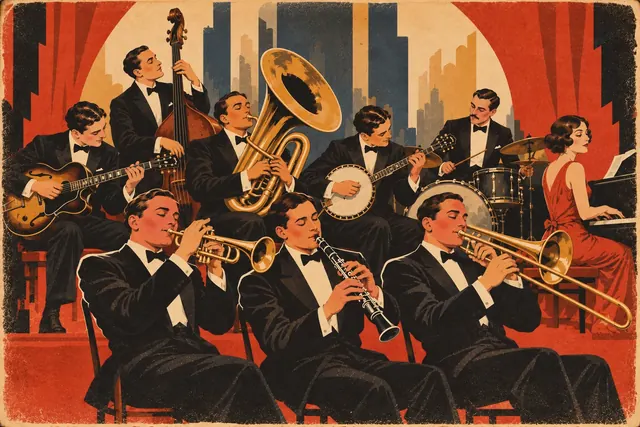
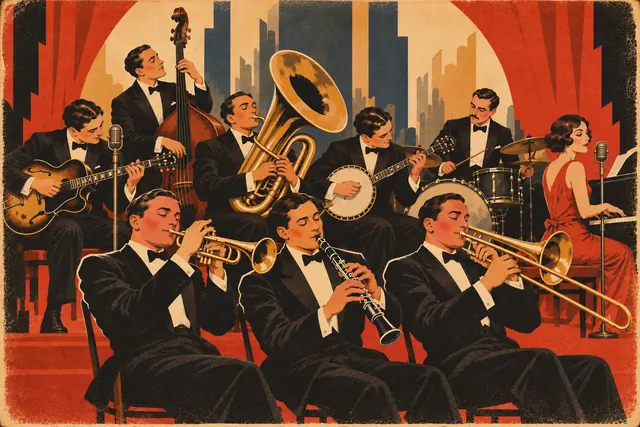
Use Ben's grayed-out lineup art in the band mixer
New illustration from the Photopea document (with microphones), and a
gray "off" state for every optional player: tuba, string bass, guitar,
banjo, trombone, drums and piano. mixer.py cuts each from an export with
just that player grayed, keeping exactly the changed pixels (no
feathering), so the patches stack to match Ben's combination exports.

Each patch's alpha doubles as that player's hit map: clicking anywhere on
a player in the art switches their track, and hovering previews it. This
replaces the hand-placed rectangle that only covered the bass.

For now the microphones gray with the guitar and piano, as in the
exports; separating them for vocals is a later re-export.

Claude-Session: https://claude.ai/code/session_01JQtVYiEz3mEvbjtBwR4Prt

diff --git a/assets/js/main.js b/assets/js/main.js
@@ -240,7 +240,7 @@
       tracks: tracks.filter((t) => el.contains(t.el)),
     }));
     const overlays = [...root.querySelectorAll(".mixer__off[data-player]")];
-    const hotspots = [...root.querySelectorAll(".mixer__hotspot")];
+    const stage = root.querySelector(".mixer__stage");
     const playBtn = root.querySelector(".mixer__play");
     const seek = root.querySelector(".mixer__seek");
     const elapsed = root.querySelector(".mixer__time");
@@ -326,7 +326,6 @@
         t.el.dataset.audible = String(audible(t));
         if (t.gain && ctx) t.gain.gain.setTargetAtTime(audible(t) ? 1 : 0, ctx.currentTime, 0.015);
       }
-      for (const h of hotspots) h.setAttribute("aria-pressed", String(playerOn(h.dataset.player)));
       for (const img of overlays) img.dataset.visible = String(!playerOn(img.dataset.player));
       const count = tracks.reduce((n, t) => n + (t.on ? t.players.length : 0), 0);
       size.textContent = SIZES[count] || `${count}-piece band`;
@@ -461,12 +460,51 @@
       });
       t.canvas.addEventListener("pointerup", () => (t.canvas.onpointermove = null));
     }
-    for (const h of hotspots) {
-      h.addEventListener("click", () => {
-        const t = tracks.find((o) => o.players.includes(h.dataset.player));
-        if (t) toggle(t);
-      });
-    }
+    // Tapping the art. Each overlay's alpha is exactly that player's shape
+    // (the pixels the grayed export changed), so it doubles as a
+    // pixel-accurate hit map, whether or not the overlay is showing.
+    const hitMaps = new Map();
+    const alphaOf = (img) => {
+      if (hitMaps.has(img)) return hitMaps.get(img);
+      if (!img.complete || !img.naturalWidth) return null;
+      const c = document.createElement("canvas");
+      c.width = img.naturalWidth;
+      c.height = img.naturalHeight;
+      const g = c.getContext("2d");
+      g.drawImage(img, 0, 0);
+      let data = null;
+      try { data = g.getImageData(0, 0, c.width, c.height).data; } catch {}
+      hitMaps.set(img, data);
+      return data;
+    };
+    const playerAt = (e) => {
+      for (const img of overlays) {
+        const r = img.getBoundingClientRect();
+        const x = Math.floor(((e.clientX - r.left) / r.width) * img.naturalWidth);
+        const y = Math.floor(((e.clientY - r.top) / r.height) * img.naturalHeight);
+        if (x < 0 || y < 0 || x >= img.naturalWidth || y >= img.naturalHeight) continue;
+        const a = alphaOf(img);
+        if (a && a[(y * img.naturalWidth + x) * 4 + 3] > 127) return img;
+      }
+      return null;
+    };
+    const trackOf = (img) => img && tracks.find((t) => t.players.includes(img.dataset.player));
+    let hovered = null;
+    const hover = (img) => {
+      if (img === hovered) return;
+      if (hovered) delete hovered.dataset.hover;
+      hovered = img;
+      if (img) img.dataset.hover = "true";
+      stage.style.cursor = trackOf(img) ? "pointer" : "";
+    };
+    stage.addEventListener("pointermove", (e) => {
+      if (e.pointerType === "mouse") hover(playerAt(e));
+    });
+    stage.addEventListener("pointerleave", () => hover(null));
+    stage.addEventListener("click", (e) => {
+      const t = trackOf(playerAt(e));
+      if (t) toggle(t);
+    });
 
     playBtn.addEventListener("click", () => {
       if (playing) {
@@ -494,7 +532,6 @@
         root.querySelector(".mixer__tracks").hidden = true;
         root.querySelector(".mixer__builder").hidden = false;
         root.querySelector(".mixer__deck").hidden = false;
-        hotspots.forEach((h) => (h.hidden = false));
         root.dataset.ready = "true";
         render();
       })

diff --git a/src/pages/configurations.html b/src/pages/configurations.html
@@ -84,9 +84,9 @@ schema: band
        floor of the band); data-need finishes "A lineup needs at least …".
        Lineup rules as Ben specified, Oct 2026. Media is prepared by
        `python3 _source/mixer.py`, which also writes the waveforms and the
-       master level to mix.json — see that file. A player who should black
-       out in the art needs a .mixer__off overlay, and optionally a
-       .mixer__hotspot to make them tappable. Without JS, visitors get the art
+       master level to mix.json — see that file. A player who should gray
+       out in the art needs a .mixer__off overlay (mixer.py prints the line);
+       its shape is also what makes that player tappable. Without JS, visitors get the art
        and a plain list of the tracks. -->
   <section class="section section--paper" id="hear-the-difference">
     <div class="wrap">
@@ -104,12 +104,16 @@ schema: band
             <picture>
               <source type="image/webp" srcset="/assets/img/band-mixer-640.webp 640w, /assets/img/band-mixer-1024.webp 1024w" sizes="(min-width: 64rem) 560px, 100vw">
               <img src="/assets/img/band-mixer-1024.jpg"
-                   alt="Illustration of a 1920s-style jazz band in tuxedos: guitar, string bass, tuba, banjo, drums, piano, trumpet, clarinet, and trombone."
+                   alt="Illustration of a 1920s-style jazz band in tuxedos: guitar, string bass, tuba, banjo, drums, piano, trumpet, clarinet, and trombone, with two microphones on stands."
                    width="1024" height="683" loading="lazy" decoding="async">
             </picture>
-            <img class="mixer__off" data-player="bass" src="/assets/img/mixer/bass-off.webp" alt="" width="296" height="557" loading="lazy" decoding="async" style="left:16.21%;top:0.49%;width:19.27%">
-            <button class="mixer__hotspot" type="button" data-player="bass" tabindex="-1" aria-hidden="true" hidden
-                    style="--x:17.3%;--y:1.5%;--w:15.6%;--h:34.6%"></button>
+            <img class="mixer__off" data-player="guitar" src="/assets/img/mixer/guitar-off.webp" alt="" width="412" height="550" loading="lazy" decoding="async" style="left:0.39%;top:23.73%;width:26.82%">
+            <img class="mixer__off" data-player="bass" src="/assets/img/mixer/bass-off.webp" alt="" width="261" height="491" loading="lazy" decoding="async" style="left:17.64%;top:1.17%;width:16.99%">
+            <img class="mixer__off" data-player="tuba" src="/assets/img/mixer/tuba-off.webp" alt="" width="348" height="450" loading="lazy" decoding="async" style="left:31.12%;top:11.82%;width:22.66%">
+            <img class="mixer__off" data-player="banjo" src="/assets/img/mixer/banjo-off.webp" alt="" width="349" height="372" loading="lazy" decoding="async" style="left:48.57%;top:25.49%;width:22.72%">
+            <img class="mixer__off" data-player="drums" src="/assets/img/mixer/drums-off.webp" alt="" width="336" height="344" loading="lazy" decoding="async" style="left:63.15%;top:20.70%;width:21.88%">
+            <img class="mixer__off" data-player="piano" src="/assets/img/mixer/piano-off.webp" alt="" width="194" height="443" loading="lazy" decoding="async" style="left:84.64%;top:26.76%;width:12.63%">
+            <img class="mixer__off" data-player="trombone" src="/assets/img/mixer/trombone-off.webp" alt="" width="564" height="546" loading="lazy" decoding="async" style="left:60.09%;top:45.70%;width:36.72%">
           </div>
 
           <div class="mixer__deck" hidden>

diff --git a/assets/css/site.css b/assets/css/site.css
@@ -970,21 +970,10 @@ a:hover { color: var(--gold-bright); }
 }
 .mixer__off[data-visible="true"] { opacity: 1; }
 
-.mixer__hotspot {
-  position: absolute;
-  left: var(--x);
-  top: var(--y);
-  width: var(--w);
-  height: var(--h);
-  padding: 0;
-  background: none;
-  border: 2px solid transparent;
-  border-radius: var(--radius-lg);
-  cursor: pointer;
-  transition: border-color var(--transition), background var(--transition);
-}
-.mixer__hotspot:hover { border-color: var(--gold); background: rgb(201 168 76 / 0.08); }
-.mixer__hotspot:disabled { cursor: default; border-color: transparent; background: none; }
+/* Hovering a player previews the change a click would make: a hint of
+   gray on a player who is on, a hint of color on one who is off. */
+.mixer__off[data-hover="true"] { opacity: 0.45; }
+.mixer__off[data-visible="true"][data-hover="true"] { opacity: 0.55; }
 
 .mixer__deck {
   display: flex;

diff --git a/_source/mixer.py b/_source/mixer.py
@@ -24,9 +24,9 @@ plus the length and a waveform outline per track for the page to draw.
 
 OVERLAYS — assets/img/mixer/orig/<player>-off.* -> assets/img/mixer/<player>-off.webp
 
-Each source is the full band illustration (assets/img/orig/band-mixer.*) with
-one player blacked out, and nothing else changed. The script keeps only the
-pixels that differ from the base, feathers the edge, and crops to them, so each
+Each source is the full band illustration (assets/img/orig/band-mixer.png) with
+one player grayed out, and nothing else changed. The script keeps only the
+pixels that differ from the base and crops to them, so each
 player's "off" state is a small transparent patch laid over the one base image.
 That way players toggle independently: no image per combination.
 
@@ -34,7 +34,7 @@ It prints the <img> line for each overlay, with its position as percentages
 of the base image, ready to paste into src/pages/configurations.html.
 """
 
-from PIL import Image, ImageChops, ImageFilter
+from PIL import Image, ImageChops
 import os, re, subprocess, sys
 
 AUDIO_SRC = 'assets/audio/stems/orig'
@@ -49,11 +49,12 @@ BITRATE = {1: '96k', 2: '160k'}
 PEAK_TARGET_DB = -1.0
 WAVE_BINS = 480         # waveform resolution; the page scales it to fit
 
-BASE = 'assets/img/orig/band-mixer.webp'
+BASE = 'assets/img/orig/band-mixer.png'
 OVERLAY_SRC = 'assets/img/mixer/orig'
 OVERLAY_OUT = 'assets/img/mixer'
-DIFF_THRESHOLD = 30   # per-pixel difference that counts as "changed" (0-255);
-                      # below this is just compression noise between the two
+DIFF_THRESHOLD = 0    # per-pixel difference that counts as "changed" (0-255).
+                      # The Photopea exports are lossless and identical outside
+                      # the grayed player, so any difference at all is real.
 
 
 def slugify(stem: str) -> str:
@@ -139,10 +140,10 @@ def overlays():
 
         diff = ImageChops.difference(base, off).convert('L')
         mask = diff.point(lambda v: 255 if v > DIFF_THRESHOLD else 0)
-        # Open (drop isolated noise pixels), then grow and soften the edge so
-        # the patch blends into the base rather than showing a hard outline.
-        mask = mask.filter(ImageFilter.MinFilter(3)).filter(ImageFilter.MaxFilter(3))
-        mask = mask.filter(ImageFilter.MaxFilter(9)).filter(ImageFilter.GaussianBlur(3))
+        # No feathering: the patch carries exactly the pixels the export
+        # changed, so one patch over the base reproduces that export exactly.
+        # (Grow or blur it and the edge drags in neighbors' full-color pixels,
+        # which show as a halo where two grayed players overlap.)
         box = mask.getbbox()
         if not box:
             raise SystemExit(f'{fn}: no difference from the base image')

diff --git a/README.md b/README.md
@@ -334,11 +334,28 @@ that balance is the mix. The supplied tracks all peaked at almost exactly
 -0.9 dBFS, which suggests they were normalized one by one on export; if the
 balance sounds wrong, that's the place to look.
 
-**Overlays.** A player who should black out in the art when switched off
-needs a "player-off" image (the full illustration with just that player
-blacked out, nothing else changed) in `assets/img/mixer/orig/`; `mixer.py`
-cuts it down to a small transparent patch and prints the `<img>` line. Only
-the string bass has one so far.
+**The art.** `assets/img/orig/band-mixer.png` is the full band, exported
+from Ben's Photopea document (Oct 25, 2026). Each optional player has an "off"
+export in `assets/img/mixer/orig/<player>-off.png`: the same image with just
+that player grayed out by the document's adjustment layers. `mixer.py` keeps
+only the pixels that changed and crops to them, so each player's gray state is
+a small transparent patch over the one base image, and players toggle
+independently. Stacked, the patches reproduce Ben's own combination exports
+almost exactly: checked against two of them, about 160 pixels in 1.5 million
+differ, all where two players overlap. The Photopea set has 72 combinations;
+only these 8 images are needed.
+
+Each patch's alpha is also that player's exact shape, so `main.js` uses it as
+the hit map for tapping the art: clicking anywhere on a player switches their
+track, and hovering previews the change (a hint of gray, or of color).
+
+Known limits of this version: the microphones gray out with the guitar and
+the piano (in the exports they follow those players; they should be separate
+for vocals later), the mask edges are rough in places, and the PNG exports
+carry faint semi-transparent seams along the masks. The pipeline drops the
+alpha, which hides the seams; compositing them over the page background
+would show them as light lines. The trombone patch is there, but stays
+unused while the horns are one track that can't be switched off.
 
 Without JS (or Web Audio) the section is the art plus a plain list of the
 tracks as `<audio controls>`.
